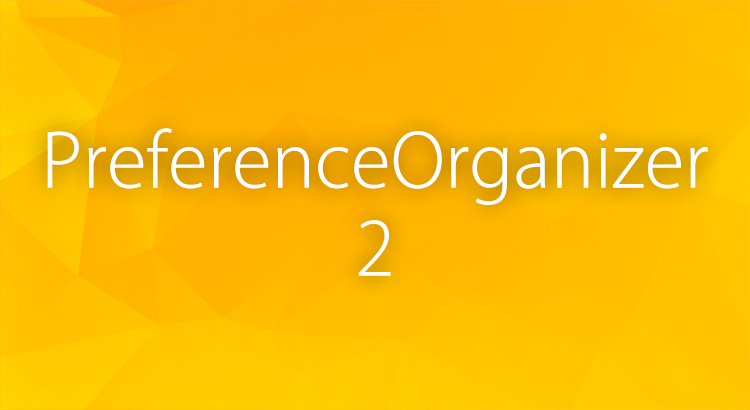
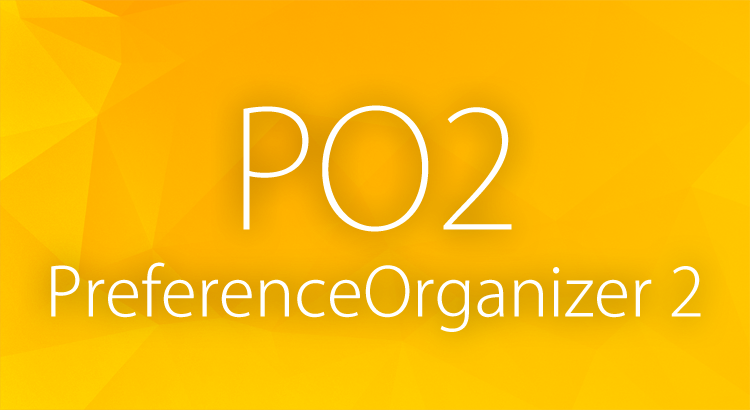
Fixed the aforementioned iOS 11 cosmetic issue, along with a bugfix for a crash that may happen on certain devices/locales(!?), updated graphic assets to far superior versions, version bump to 4.0 for release alongside new versions of KarenPrefs, KarenLocaliser, and AirSpeaker.

Changed region(s): [[0.0307, 0.2341, 0.9507, 0.8195], [0.8893, 0.6439, 0.9507, 0.7317], [0.8893, 0.7317, 0.9507, 0.7902]]

diff --git a/changelog-inline.html b/changelog-inline.html
@@ -1,138 +1,145 @@
 			<panel>
-				<label>3.7: February 08th, 2017</label>
+				<label>4.0: 2018/07/13</label>
+				<fieldset>
+					<div><label>Removed Social Apps group on iOS 11, as iOS no longer has system integration with social networking services.</label></div>
+					<div><label>Fixed all iOS 11-specific issues — PreferenceOrganiser 2 is now fully compatible with iOS 11!</label></div>
+					<div><label>Fixed a rare issue related to preferences loading affecting a small subset of device configurations that could lead to crashing.</label></div>
+					<div><label>Fixed a rare issue on iOS 10.x where resuming the Preferences app from a suspended state will sometimes cause it to crash.</label></div>
+				</fieldset>
+				<label>3.7: 2017/02/08</label>
 				<fieldset>
 					<div><label>Fixed a crash that would occur on some iOS 10 devices when Apple Apps were attempted to be sorted.</label></div>
 				</fieldset>
-				<label>3.6: January 30th, 2017</label>
+				<label>3.6: 2017/01/30</label>
 				<fieldset>
 					<div><label>Fixed App Store App functionality on iOS 10.</label></div>
 					<div><label>Further improvements to tweak URL forwarding (from external apps/tweaks).</label></div>
 				</fieldset>
-				<label>3.5.1: August 07th, 2016</label>
+				<label>3.5.1: 2016/08/07</label>
 				<fieldset>
 					<div><label>Improved overall stability.</label></div>
 					<div><label>Rewrote code to prevent duplicate entries of Apple's "third-party" app settings (iBooks, Podcasts, etc.).</label></div>
 					<div><label>Fixed a crash regression that would occur on iOS 7.x/8.x due to changes made in version 3.5.</label></div>
 				</fieldset>
-				<label>3.5: August 06th, 2016</label>
+				<label>3.5: 2016/08/06</label>
 				<fieldset>
 					<div><label>Fix a crash that would sometimes happen if the user suspends the Settings app and then resumes it via the App Switcher.</label></div>
 					<div><label>Fix duplicated copies of Apple's "third-party" apps (iBooks, Podcasts, etc.)</label></div>
 				</fieldset>
-				<label>3.4.1: August 06th, 2016</label>
+				<label>3.4.1: 2016/08/06</label>
 				<fieldset>
 					<div><label>Prevent duplicates of some System Apps entries appearing in the main Settings view.</label></div>
 				</fieldset>
-				<label>3.4: August 05th, 2016</label>
+				<label>3.4: 2016/08/05</label>
 				<fieldset>
 					<div><label>Rewrote code pertaining to iOS 9.2.x and 9.3.x. Should fix some crashes people were reporting.</label></div>
 					<div><label>Prevent duplicates of some apps appearing in System Apps.</label></div>
 				</fieldset>
-				<label>3.3: July 27th, 2016</label>
+				<label>3.3: 2016/07/27</label>
 				<fieldset>
 					<div><label>Crash fixes for iOS 9.2.x and 9.3.x</label></div>
 					<div><label>Podcasts, iBooks, Passbook/Wallet, and News are now sorted correctly into System Apps.</label></div>
 				</fieldset>
-				<label>3.2: June 16th, 2016</label>
+				<label>3.2: 2016/06/16</label>
 				<fieldset>
 					<div><label>iPads running iOS 9 are now able to sort System Apps.</label></div>
 					<div><label>iCloud preferences are now properly sorted as opposed to being excluded from sorting.</label></div>
 				</fieldset>
-				<label>3.1.1: April 15th, 2016</label>
+				<label>3.1.1: 2016/04/15</label>
 				<fieldset>
 					<div><label>Fixed a bug where preference resetting might claim to fail even if it didn't.</label></div>
 					<div><label>Updated to use my public open-source <a href="https://github.com/angelXwind/KarenPrefs" target="_blank">KarenPrefs</a> library. Also updated PreferenceOrganizer 2's usage of KarenPrefs to include colored buttons, animated exit-to-SpringBoard app close animation, and many other things I've forgotten by now.</label></div>
 					<div><label>Updated to use my public open-source <a href="https://github.com/angelXwind/KarenLocalizer" target="_blank">KarenLocalizer</a> library.</label></div>
 				</fieldset>
-				<label>3.1: February 20th, 2016</label>
+				<label>3.1: 2016/02/20</label>
 				<fieldset>
 					<div><label>日本語化を追加しました</label></div>
 					<div><label>Changed default section titles</label></div>
 					<div><label>Fixed a bug where PreferenceOrganizer 2 would sort preferences incorrectly (by one GroupID) if a DDI was mounted and PreferenceLoader 2.2.3+ was installed.</label></div>
 					<div><label>Worked around a crash caused by removing System Apps from the main Settings view on iPads running iOS 9(!?)</label></div>
 				</fieldset>
-				<label>3.0.4: January 16th, 2016</label>
+				<label>3.0.4: 2016/01/16</label>
 				<fieldset>
 					<div><label>Fixed a bug where PreferenceOrganizer 2 would cause the "prefs:" URL scheme to behave incorrectly.</label></div>
 				</fieldset>
-				<label>3.0.3: January 15th, 2016</label>
+				<label>3.0.3: 2016/01/15</label>
 				<fieldset>
 					<div><label>Fixed a bug where PreferenceOrganizer 2 would sort things into the wrong categories on iOS 6.</label></div>
 				</fieldset>
-				<label>3.0.2: January 14th, 2016</label>
+				<label>3.0.2: 2016/01/14</label>
 				<fieldset>
 					<div><label>Changed the way how PreferenceOrganizer 2 behaves when it detects PreferenceLoader 2.2.3/2.2.4~alpha1. Now it no longer disables itself (or crashes!), but just alerts the user that the categories will be sorted incorrectly.</label></div>
 				</fieldset>
-				<label>3.0.1: January 14th, 2016</label>
+				<label>3.0.1: 2016/01/14</label>
 				<fieldset>
 					<div><label>Added a check for PreferenceLoader 2.2.4~alpha1, because that version causes the same bug as 2.2.3.</label></div>
 				</fieldset>
-				<label>3.0: January 14th, 2016</label>
+				<label>3.0: 2016/01/14</label>
 				<fieldset>
 					<div><label>Fixed a bug where well, PreferenceOrganizer 2 would completely fail to work at all on iOS 9 ;P</label></div>
 					<div><label>Fixed a bug where News, iBooks, Podcasts, and iTunes U would disappear.</label></div>
 					<div><label>Added some more useful information regarding the debug logging feature</label></div>
 					<div><label>Added KarenLocalize support (previously in mikoto and Pasithea) to PreferenceOrganizer 2</label></div>
-					<div><label>Added a PayPal donate button (rei@angelxwind.net)</label></div>
+					<div><label>Added a PayPal donate button (<a class="__cf_email__" href="/cdn-cgi/l/email-protection" data-cfemail="4a382f230a2b242d2f26323d23242e64242f3e">[email protected]</a><script data-cfhash='f9e31' type="text/javascript">/* <![CDATA[ */!function(t,e,r,n,c,a,p){try{t=document.currentScript||function(){for(t=document.getElementsByTagName('script'),e=t.length;e--;)if(t[e].getAttribute('data-cfhash'))return t[e]}();if(t&&(c=t.previousSibling)){p=t.parentNode;if(a=c.getAttribute('data-cfemail')){for(e='',r='0x'+a.substr(0,2)|0,n=2;a.length-n;n+=2)e+='%'+('0'+('0x'+a.substr(n,2)^r).toString(16)).slice(-2);p.replaceChild(document.createTextNode(decodeURIComponent(e)),c)}p.removeChild(t)}}catch(u){}}()/* ]]> */</script>)</label></div>
 				</fieldset>
 
-				<label>2.5.1-1: December 07th, 2014</label>
+				<label>2.5.1-1: 2014/12/07</label>
 				<fieldset>
 					<div><label>Fixed a grammatical error in PreferenceOrganizer 2's preferences.</label></div>
 					<div><label>Refactored the preferences code (backported from mikoto 2.6.1-1).</label></div>
 					<div><label>Removes versions of PreferenceOrganizer 2 mirrored on some unofficial ("piracy") repos to avoid instability.</label></div>
 				</fieldset>
-				<label>2.5-1: November 23rd, 2014</label>
+				<label>2.5-1: 2014/11/23</label>
 				<fieldset>
 					<div><label>Added an Conflicts definition for jp.r-plus.cloaky, as it causes the Settings app to crash if it is installed alongside PreferenceOrganizer 2.</label></div>
 					<div><label>Fixed bug where the last specifier in the Tweaks section would be carried over into the App Store Apps section.</label></div>
 					<div><label>5 updates in one day... x_x Sorry for all the bumpiness, the wide variety of tweak configurations leads to weird things happening like this.</label></div>
 				</fieldset>
-				<label>2.4-1: November 22nd, 2014</label>
+				<label>2.4-1: 2014/11/22</label>
 				<fieldset>
 					<div><label>Fixed yet another bug with some device configurations causing App Store Apps to completely disappear on iOS 8. iOS 8 sure is fun.</label></div>
 					<div><label>2.2-1, 2.3-1, and 2.4-1 are the fastest updates I've ever pushed due to the strange device-specific nature of these bugs...</label></div>
 				</fieldset>
-				<label>2.3-1: November 22nd, 2014</label>
+				<label>2.3-1: 2014/11/22</label>
 				<fieldset>
 					<div><label>Added Conflicts field with com.phillipt.noappsettings - the two are fundamentally incompatible.</label></div>
 					<div><label>Fixed bug where preferences would be sorted backwards on some device configurations.</label></div>
 				</fieldset>
-				<label>2.2-1: November 22nd, 2014</label>
+				<label>2.2-1: 2014/11/22</label>
 				<fieldset>
 					<div><label>Full iOS 8 compatibility!</label></div>
 					<div><label>"Fixed" the iCloud crashing bug by completely excluding its specifier (CASTLE) from PreferenceOrganizer. Many thanks to Hiraku who figured this out.</label></div>w
 					<div><label>Completely rewritten preference system - now uses the same one as mikoto 2.4</label></div>
 				</fieldset>
-				<label>2.1-1: November 22nd, 2014</label>
+				<label>2.1-1: 2014/11/22</label>
 				<fieldset>
 					<div><label>Fixed bug where App Store Apps didn't check to see if its preference boolean was actually enabled or not.</label></div>
 				</fieldset>
-				<label>2.0-1: November 22nd, 2014</label>
+				<label>2.0-1: 2014/11/22</label>
 				<fieldset>
 					<div><label>Preliminary iOS 8 compatibility - App Store Apps will only work if you are a developer. (Yes, seriously.)</label></div>
 				</fieldset>
-				<label>1.7-1: June 04th, 2014</label>
+				<label>1.7-1: 2014/06/04</label>
 				<fieldset>
 					<div><label>Re-worded the iCloud preference pane text. Now shows the workaround that is possible by going into Mail, THEN iCloud from Apple Apps.</label></div>
 				</fieldset>
-				<label>1.6-1: May 24th, 2014</label>
+				<label>1.6-1: 2014/05/24</label>
 				<fieldset>
 					<div><label>Added an Apply button in the PreferenceOrganizer 2 settings.</label></div>
 				</fieldset>
-				<label>1.5-1: May 22nd, 2014</label>
+				<label>1.5-1: 2014/05/22</label>
 				<fieldset>
 					<div><label>Removed conflict with GuestMode (org.thebigboss.guestmode). Apparently the developer fixed the bugs with PreferenceOrganizer 2.</label></div>
 				</fieldset>
-				<label>1.2-1: May 09th, 2014</label>
+				<label>1.2-1: 2014/05/09</label>
 				<fieldset>
 					<div><label>Fixed a bug which would cause Settings to sometimes crash on launch.</label></div>
 				</fieldset>
-				<label>1.2: May 09th, 2014</label>
+				<label>1.2: 2014/05/09</label>
 				<fieldset>
 					<div><label>Added ability to rename the sections from the PreferenceOrganizer 2 settings.</label></div>
 				</fieldset>
-				<label>1.1-1: May 08th, 2014</label>
+				<label>1.1-1: 2014/05/08</label>
 				<fieldset>
 					<div><label>Added settings for PreferenceOrganizer 2 that allow you to turn on and off the sections.</label></div>
 					<div><label>Various bug fixes.</label></div>

diff --git a/redditpost.md b/redditpost.md
@@ -8,13 +8,19 @@
 
 Due to limited time and other personal circumstances, progress on my projects will be a bit slower than usual. Don't worry, new releases are still coming ;P
 
-#**Changelog ([full changelog](https://cydia.angelxwind.net/?page/net.angelxwind.preferenceorganizer2-changelog))**
+#**Changelog for 4.0 ([full changelog](https://cydia.angelxwind.net/?page/net.angelxwind.preferenceorganizer2-changelog))**
 
-* **[3.7] [iOS 10]** Fixed a crash that would occur on some iOS 10 devices when Apple Apps were attempted to be sorted.
+* Removed Social Apps group on iOS 11, as iOS no longer has system integration with social networking services.
+
+* Fixed all iOS 11-specific issues — PreferenceOrganiser 2 is now fully compatible with iOS 11!
+
+* Fixed a rare issue related to preferences loading affecting a small subset of device configurations that could lead to crashing.
+
+* Fixed a rare issue on iOS 10.x where resuming the Preferences app from a suspended state will sometimes cause it to crash.
 
 #**Help! My device caught fire and pineapples are coming out of the Lightning port!**
 
-If you think PreferenceOrganizer 2 made your device crash, install CrashReporter and send me an email using its app.
+If you think PreferenceOrganizer 2 is causing crashes, install CrashReporter and send me an email using its app.
 
 Otherwise, please report all other issues here in this reddit thread so others will be able to share knowledge.
 
@@ -26,9 +32,9 @@ Your device is now violating... *several* laws of thermodynamics. Congratulation
 
 #**For new users: So what *is* PreferenceOrganizer 2?**
 
-A simple and free alternative to PreferenceFolders, compatible with iOS 6, 7, 8, 9, and 10.
+A simple and free alternative to PreferenceFolders, compatible with iOS 6, 7, 8, 9, 10, and 11.
 
-PreferenceOrganizer 2 organises your Settings app by separating your Settings app into 4 configurable categories: Apple Apps, Social Apps, Tweaks, and App Store Apps.
+PreferenceOrganiser 2 organises and de-clutters your Preferences app into several configurable categories for ease of navigation.
 
 Uses [KarenPrefs](https://github.com/angelXwind/KarenPrefs) and [KarenLocalizer](https://github.com/angelXwind/KarenLocalizer).
 
